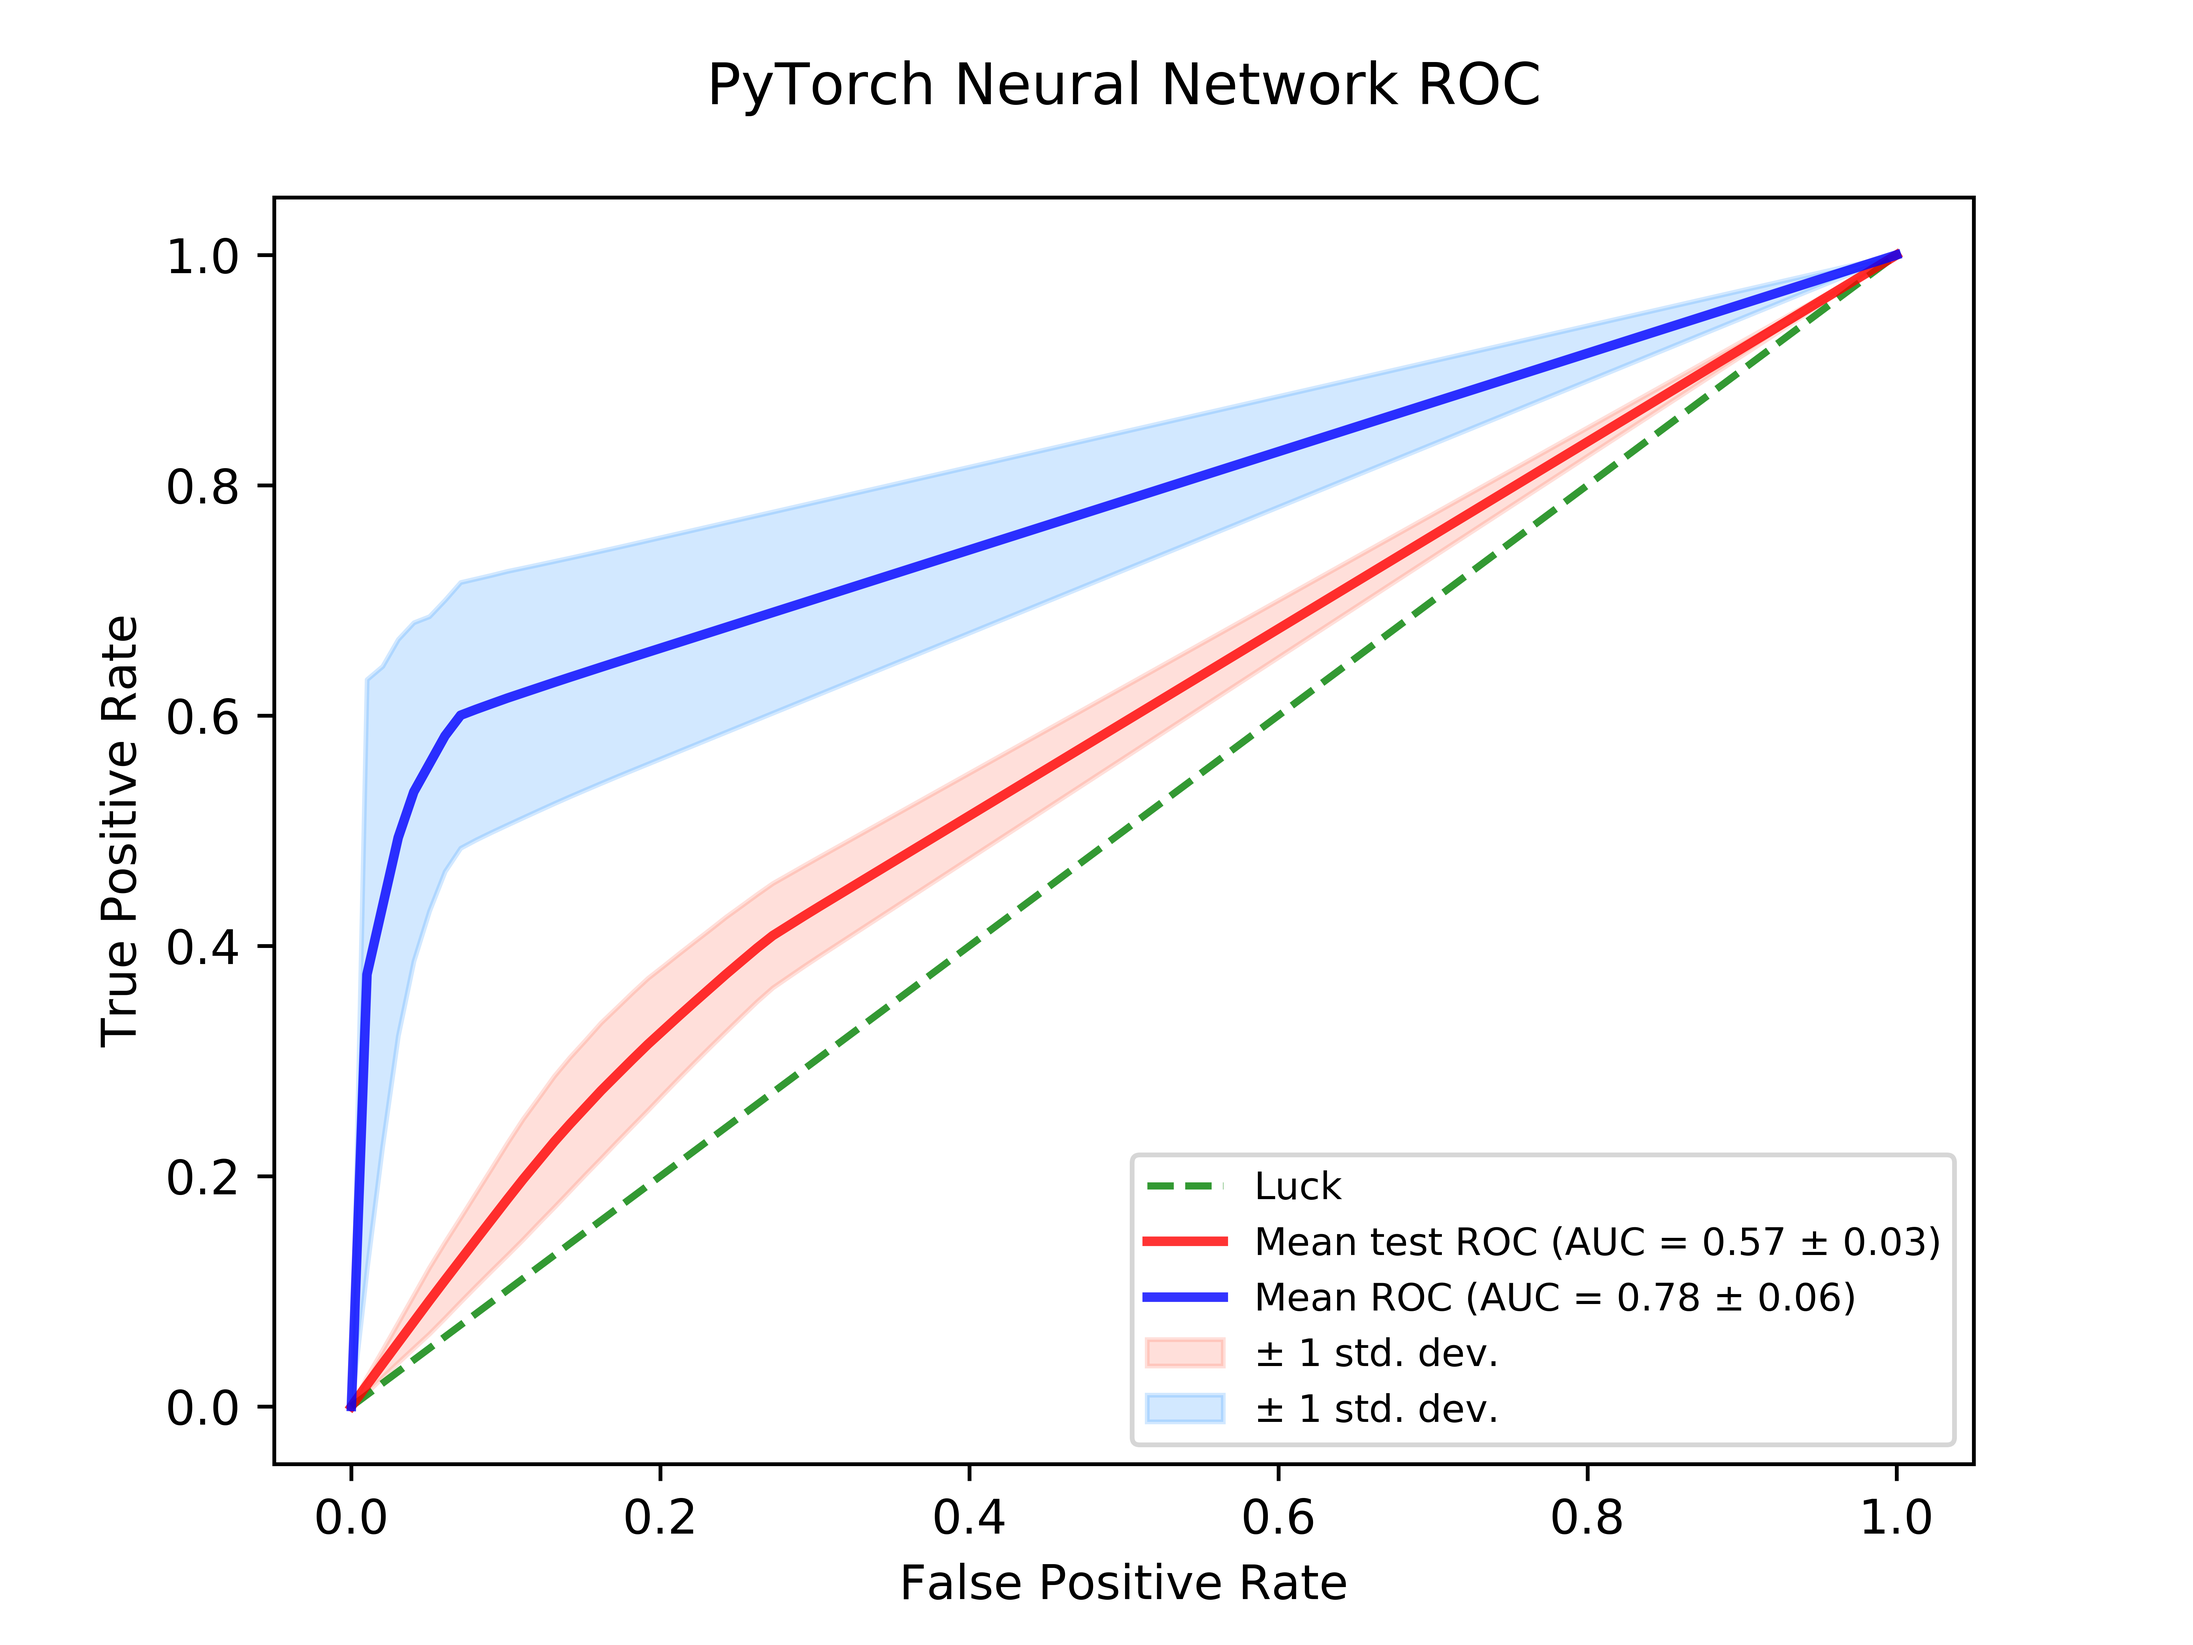
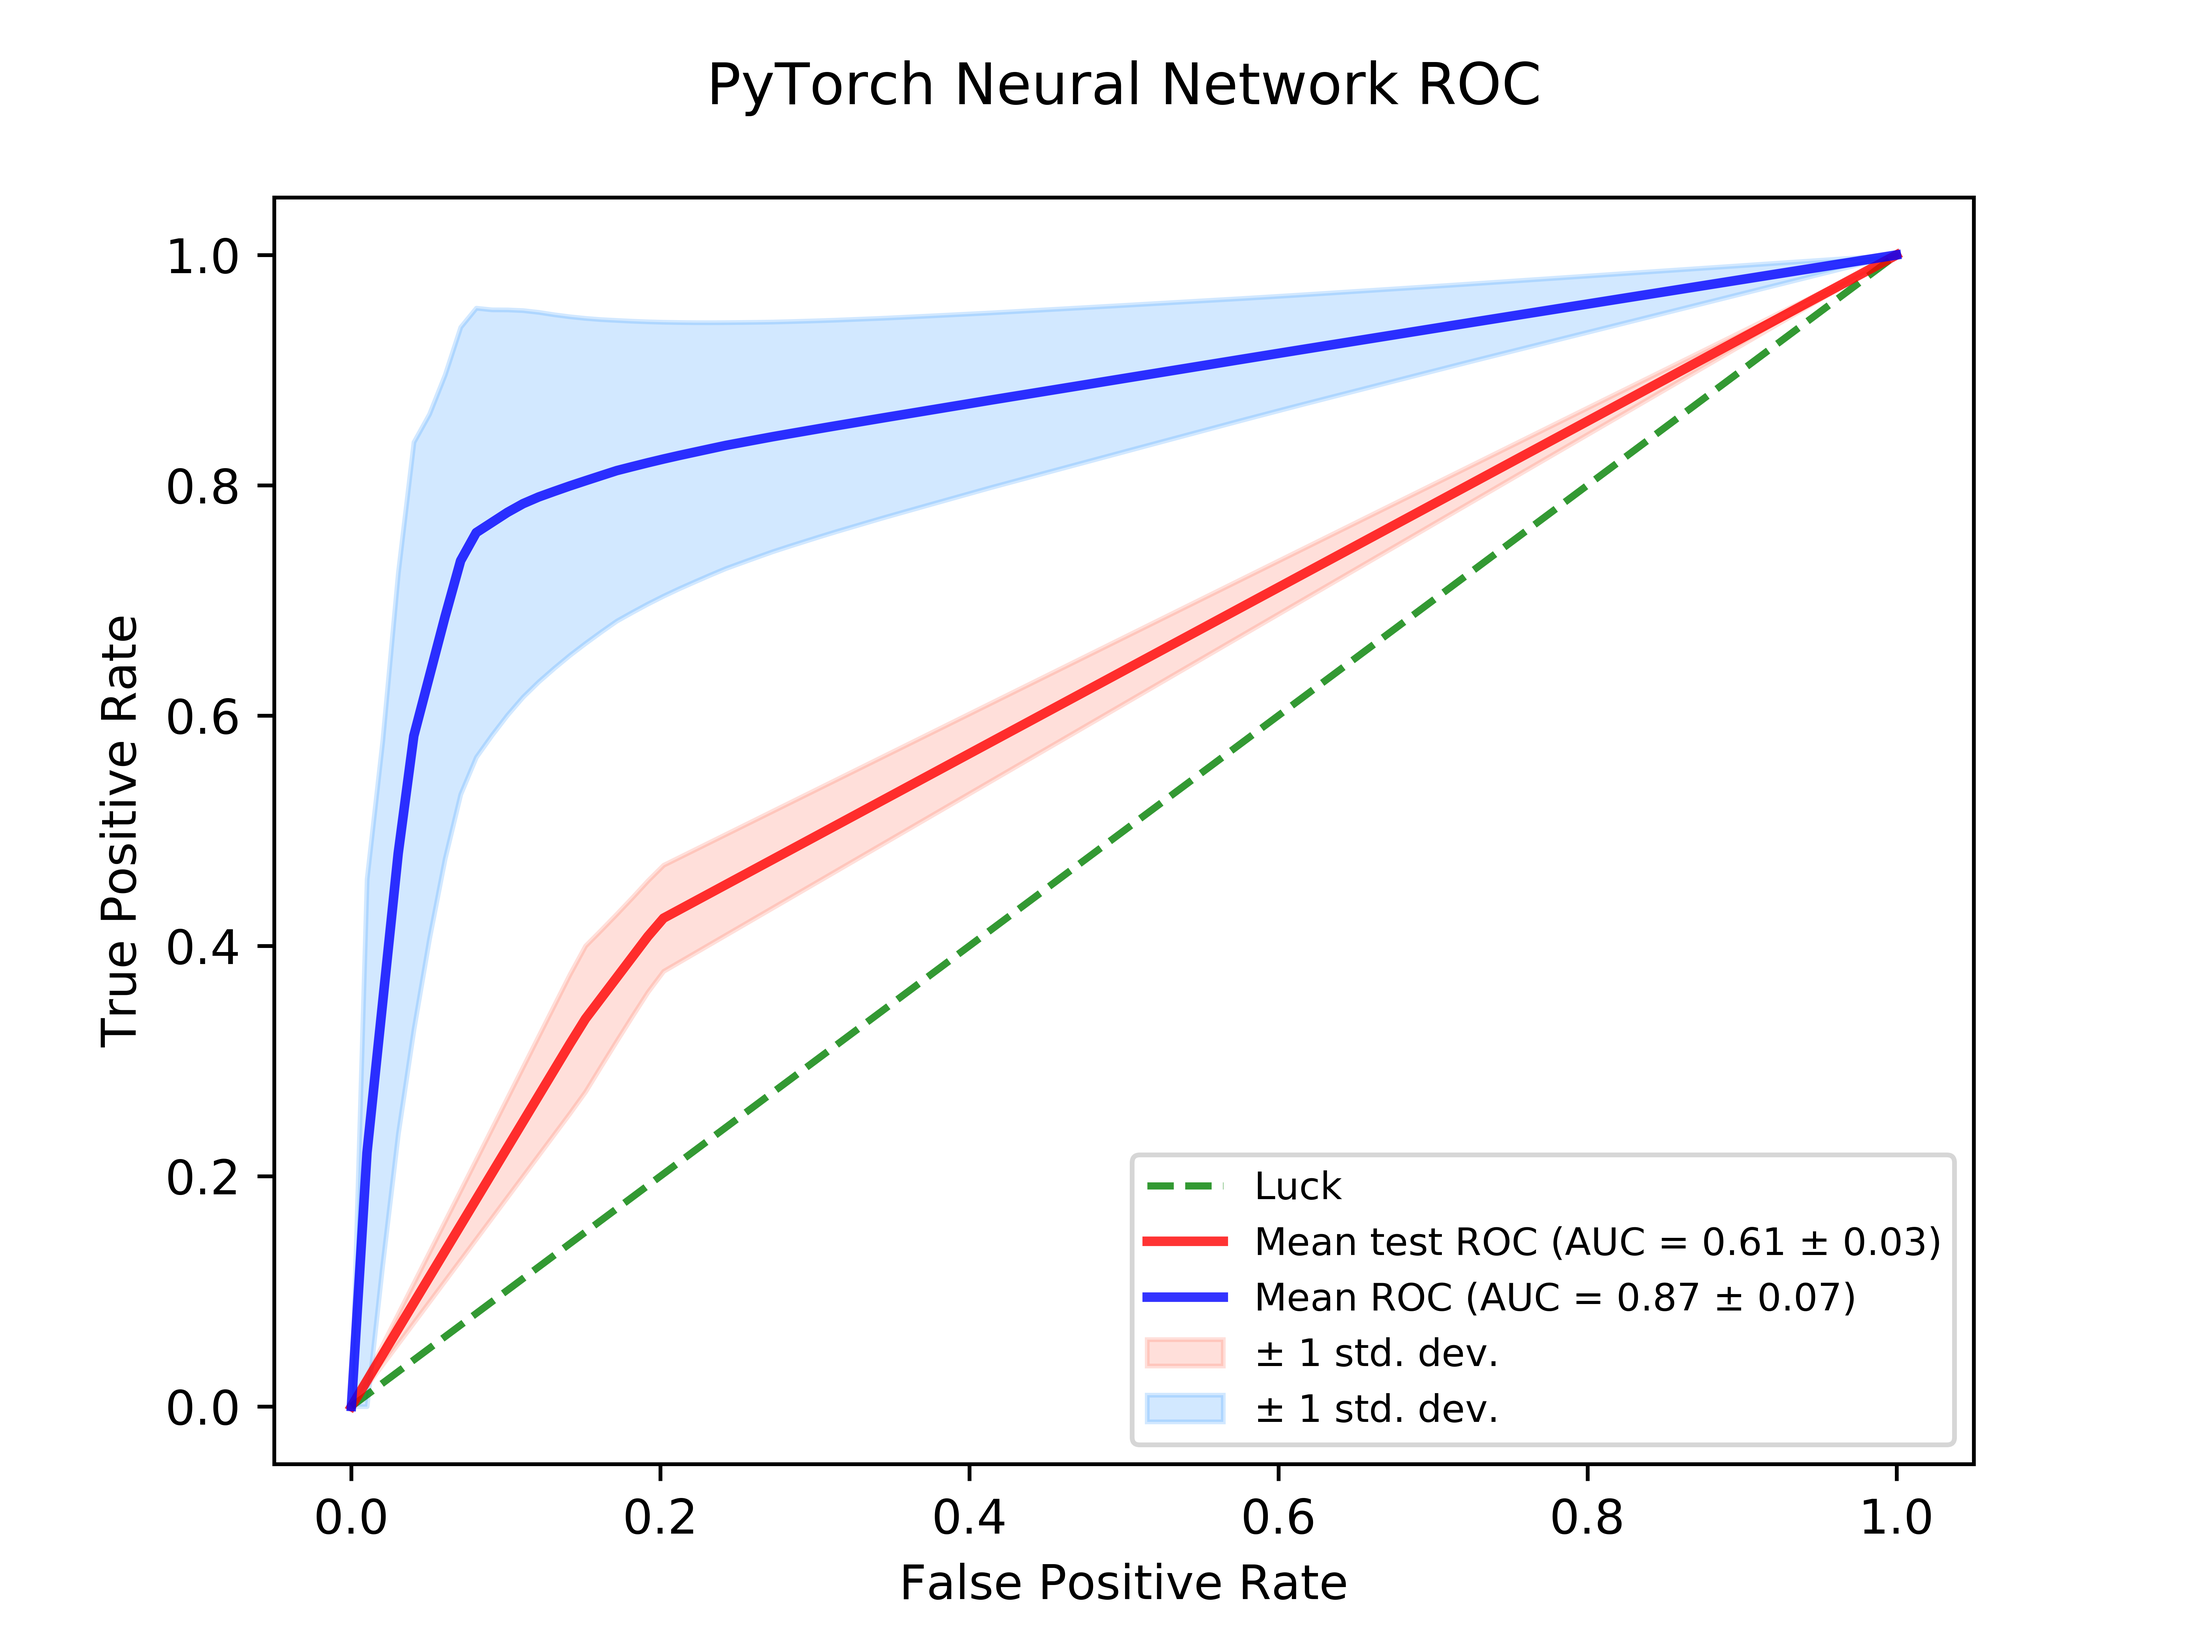
keras update

Changed region(s): [[0.1562, 0.1562, 0.875, 0.8438], [0.75, 0.7812, 0.7812, 0.8125]]

diff --git a/code/learning/Keras_baxter.py b/code/learning/Keras_baxter.py
@@ -8,6 +8,9 @@ import seaborn as sns
 import keras
 from keras.models import Sequential
 from keras.layers import Dense, Dropout
+from scipy import interp
+from sklearn.metrics import roc_curve, auc
+from sklearn.model_selection import RepeatedStratifiedKFold
 
 
 
@@ -35,32 +38,83 @@ y = data["dx"].replace(diagnosis)
 ##drop if NA elements
 y.dropna()
 x.dropna()
-x_train, x_test, y_train, y_test = train_test_split(x, y, test_size=0.2, shuffle=True)
 
-# Initialising the ANN
-classifier = Sequential()
-
-# Adding the input layer and the first hidden layer
-classifier.add(Dense(output_dim=100, init='uniform', activation='relu', input_dim=6920))
-# Adding dropout to prevent overfitting
-classifier.add(Dropout(p=0.1))
-# Adding the second hidden layer
-classifier.add(Dense(output_dim=100, init='uniform', activation='relu'))
-# Adding dropout to prevent overfitting
-classifier.add(Dropout(p=0.1))
-# Adding the output layer
-classifier.add(Dense(output_dim=1, init='uniform', activation='sigmoid'))
+Keras_plot = plt.figure()
+tprs = []
+aucs = []
+mean_fpr = np.linspace(0, 1, 100)
+tprs_test = []
+aucs_test = []
+mean_fpr_test = np.linspace(0, 1, 100)
+num_epochs=10
 
 
-# Compiling the ANN
-classifier.compile(optimizer='adam', loss='binary_crossentropy', metrics=['accuracy'])
 
-# Fitting the ANN to the Training set
-classifier.fit(x_train, y_train, batch_size=50, nb_epoch=100)
+for epoch in range(num_epochs):
+    x_train, x_test, y_train, y_test = train_test_split(x, y, test_size=0.25, shuffle=True)
 
-y_pred = classifier.predict(x_test)
-y_pred = (y_pred > 0.5)
-from sklearn.metrics import confusion_matrix
-cm = confusion_matrix(y_test, y_pred)
+    X=x_train.values
+    Y=y_train.values
+    cv = RepeatedStratifiedKFold(n_splits=5, random_state=200889)
+    for train, test in cv.split(X,Y):
+        # Initialising the ANN
+        classifier = Sequential()
+        # Adding the input layer and the first hidden layer
+        classifier.add(Dense(output_dim=100, init='uniform', activation='relu', input_dim=6920))
+        # Adding dropout to prevent overfitting
+        classifier.add(Dropout(p=0.1))
+        # Adding the second hidden layer
+        classifier.add(Dense(output_dim=100, init='uniform', activation='relu'))
+        # Adding dropout to prevent overfitting
+        classifier.add(Dropout(p=0.1))
+        # Adding the output layer
+        classifier.add(Dense(output_dim=1, init='uniform', activation='sigmoid'))
+        # Compiling the ANN
+        classifier.compile(optimizer='adam', loss='binary_crossentropy', metrics=['accuracy'])
+        # Fitting the ANN to the Training set
+        classifier.fit(X[train], Y[train], epochs=100, batch_size=20, verbose=0)
 
-print("Our accuracy is {}%".format(((cm[0][0] + cm[1][1])/57)*100))
+        y_pred = classifier.predict(X[test]).ravel()
+        fpr, tpr, thresholds = roc_curve(Y[test], y_pred)
+        tprs.append(interp(mean_fpr, fpr, tpr))
+        tprs[-1][0] = 0.0
+        roc_auc = auc(fpr, tpr)
+        aucs.append(roc_auc)
+        plt.plot(fpr, tpr, lw=1, alpha=0.3, label='ROC fold %d (AUC = %0.2f)' % (epoch, roc_auc))
+
+
+    y_pred_test = classifier.predict(x_test).ravel()
+    fpr_test, tpr_test, thresholds_test = roc_curve(y_test, y_pred_test)
+    roc_auc_test = auc(fpr_test, tpr_test)
+    tprs_test.append(interp(mean_fpr_test, fpr_test, tpr_test))
+    tprs_test[-1][0] = 0.0
+    roc_auc_test = auc(fpr_test, tpr_test)
+    aucs_test.append(roc_auc_test)
+
+plt.plot([0, 1], [0, 1], linestyle='--', color='green', label='Luck', alpha=.8)
+mean_tpr_test = np.mean(tprs_test, axis=0)
+mean_tpr_test[-1] = 1.0
+mean_auc_test = auc(mean_fpr_test, mean_tpr_test)
+std_auc_test = np.std(aucs_test)
+plt.plot(mean_fpr_test, mean_tpr_test, color='r', label=r'Mean test ROC (AUC = %0.2f $\pm$ %0.2f)' % (mean_auc_test, std_auc_test), lw=2, alpha=.8)
+std_tpr_test = np.std(tprs_test, axis=0)
+tprs_upper_test = np.minimum(mean_tpr_test + std_tpr_test, 1)
+tprs_lower_test = np.maximum(mean_tpr_test - std_tpr_test, 0)
+plt.fill_between(mean_fpr_test, tprs_lower_test, tprs_upper_test, color='tomato', alpha=.2, label=r'$\pm$ 1 std. dev.')
+mean_tpr = np.mean(tprs, axis=0)
+mean_tpr[-1] = 1.0
+mean_auc = auc(mean_fpr, mean_tpr)
+std_auc = np.std(aucs)
+plt.plot(mean_fpr, mean_tpr, color='b', label=r'Mean ROC (AUC = %0.2f $\pm$ %0.2f)' % (mean_auc, std_auc), lw=2, alpha=.8)
+std_tpr = np.std(tprs, axis=0)
+tprs_upper = np.minimum(mean_tpr + std_tpr, 1)
+tprs_lower = np.maximum(mean_tpr - std_tpr, 0)
+plt.fill_between(mean_fpr, tprs_lower, tprs_upper, color='dodgerblue', alpha=.2, label=r'$\pm$ 1 std. dev.')
+plt.xlim([-0.05, 1.05])
+plt.ylim([-0.05, 1.05])
+plt.xlabel('False Positive Rate')
+plt.ylabel('True Positive Rate')
+plt.title('Keras Neural Network ROC\n')
+plt.legend(loc="lower right", fontsize=8)
+#plt.show()
+Keras_plot.savefig('results/figures/Keras_Baxter.png', dpi=1000)

diff --git a/code/learning/pyTorch_baxter.py b/code/learning/pyTorch_baxter.py
@@ -100,6 +100,7 @@ from sklearn.utils import shuffle
 from torch.autograd import Variable
 from scipy import interp
 from sklearn.metrics import (accuracy_score, confusion_matrix, classification_report, roc_curve, auc)
+from sklearn.utils import shuffle
 
 
 
@@ -127,7 +128,7 @@ y = data["dx"].replace(diagnosis)
 ##drop if NA elements
 y.dropna()
 x.dropna()
-x_train, x_test, y_train, y_test = train_test_split(x, y, test_size=0.2, shuffle=True)
+x_train, x_test, y_train, y_test = train_test_split(x, y, test_size=0.1, shuffle=True)
 
 
 
@@ -139,6 +140,7 @@ class Net(nn.Module):
     def forward(self, x):
         x = self.fc1(x)
         x = F.dropout(x, p=0.5)
+        x = F.relu(x)
         x = self.fc2(x)
         x = F.sigmoid(x)
         return x
@@ -149,12 +151,12 @@ net = Net()
 
 batch_size = 50
 num_epochs = 100
-learning_rate = 0.0005
+learning_rate = 0.00005
 batch_no = 233//batch_size
 
 
 criterion = nn.CrossEntropyLoss()
-optimizer = torch.optim.Adam(net.parameters(), lr=learning_rate, weight_decay=1e-2)
+optimizer = torch.optim.Adam(net.parameters(), lr=learning_rate, weight_decay=1e-3)
 
 
 pyTorch_plot = plt.figure()
@@ -167,14 +169,18 @@ mean_fpr_test = np.linspace(0, 1, 100)
 
 for epoch in range(num_epochs):
     # Mini batch learning
+    #x_train, y_train = shuffle(x_train, y_train)
     for i in range(batch_no):
         start = i * batch_size
         end = start + batch_size
         x_var = Variable(torch.FloatTensor(x_train.values[start:end]))
         y_var = Variable(torch.LongTensor(y_train.values[start:end]))
         # Forward + Backward + Optimize
+        optimizer.zero_grad()
         ypred_var = net(x_var)
         loss =criterion(ypred_var, y_var)
+        loss.backward()
+        optimizer.step()
         correct_num = 0
         ## The outputs of the model (ypred_var) are energies for the 10 classes. Higher the energy for a class, the more the network thinks that the image is of the particular class. So, let’s get the index of the highest energy:
         values, labels = torch.max(ypred_var, 1)
@@ -184,16 +190,13 @@ for epoch in range(num_epochs):
         tprs[-1][0] = 0.0
         roc_auc = auc(fpr, tpr)
         aucs.append(roc_auc)
-        optimizer.zero_grad()
-        loss.backward()
-        optimizer.step()
         print('Epoch [%d], Loss:%.4f, Accuracy:%.4f' % (epoch, loss.data[0], correct_num/len(labels)))
         #plt.plot(fpr, tpr, lw=1, alpha=0.3, label='ROC fold %d (AUC = %0.2f)' % (epoch, roc_auc))
-    #net.eval()
+
     x_var_test = Variable(torch.FloatTensor(x_test.values))
     y_var_test = Variable(torch.LongTensor(y_test.values))
-    # Forward + Backward + Optimize
-    ypred_var_test = net(x_var_test)
+    with torch.no_grad():
+        ypred_var_test = net(x_var_test)
     correct_num_test = 0
     values_test, labels_test = torch.max(ypred_var_test, 1)
     correct_num_test = np.sum(labels_test.data.numpy() == y_var_test.numpy())
